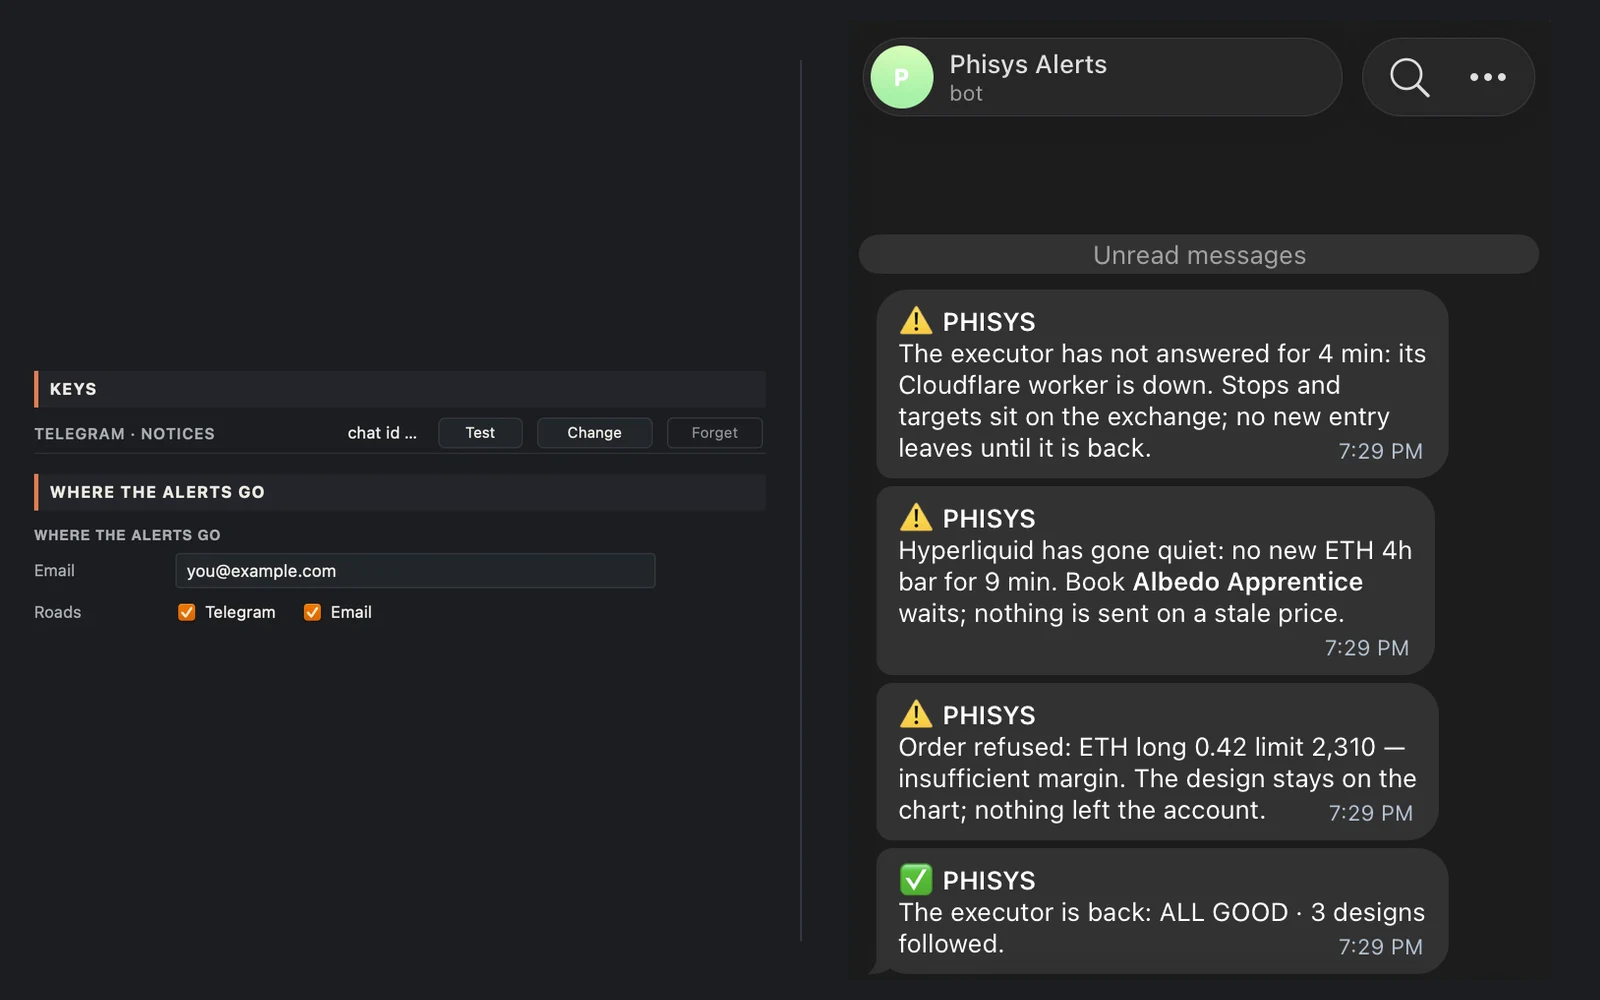
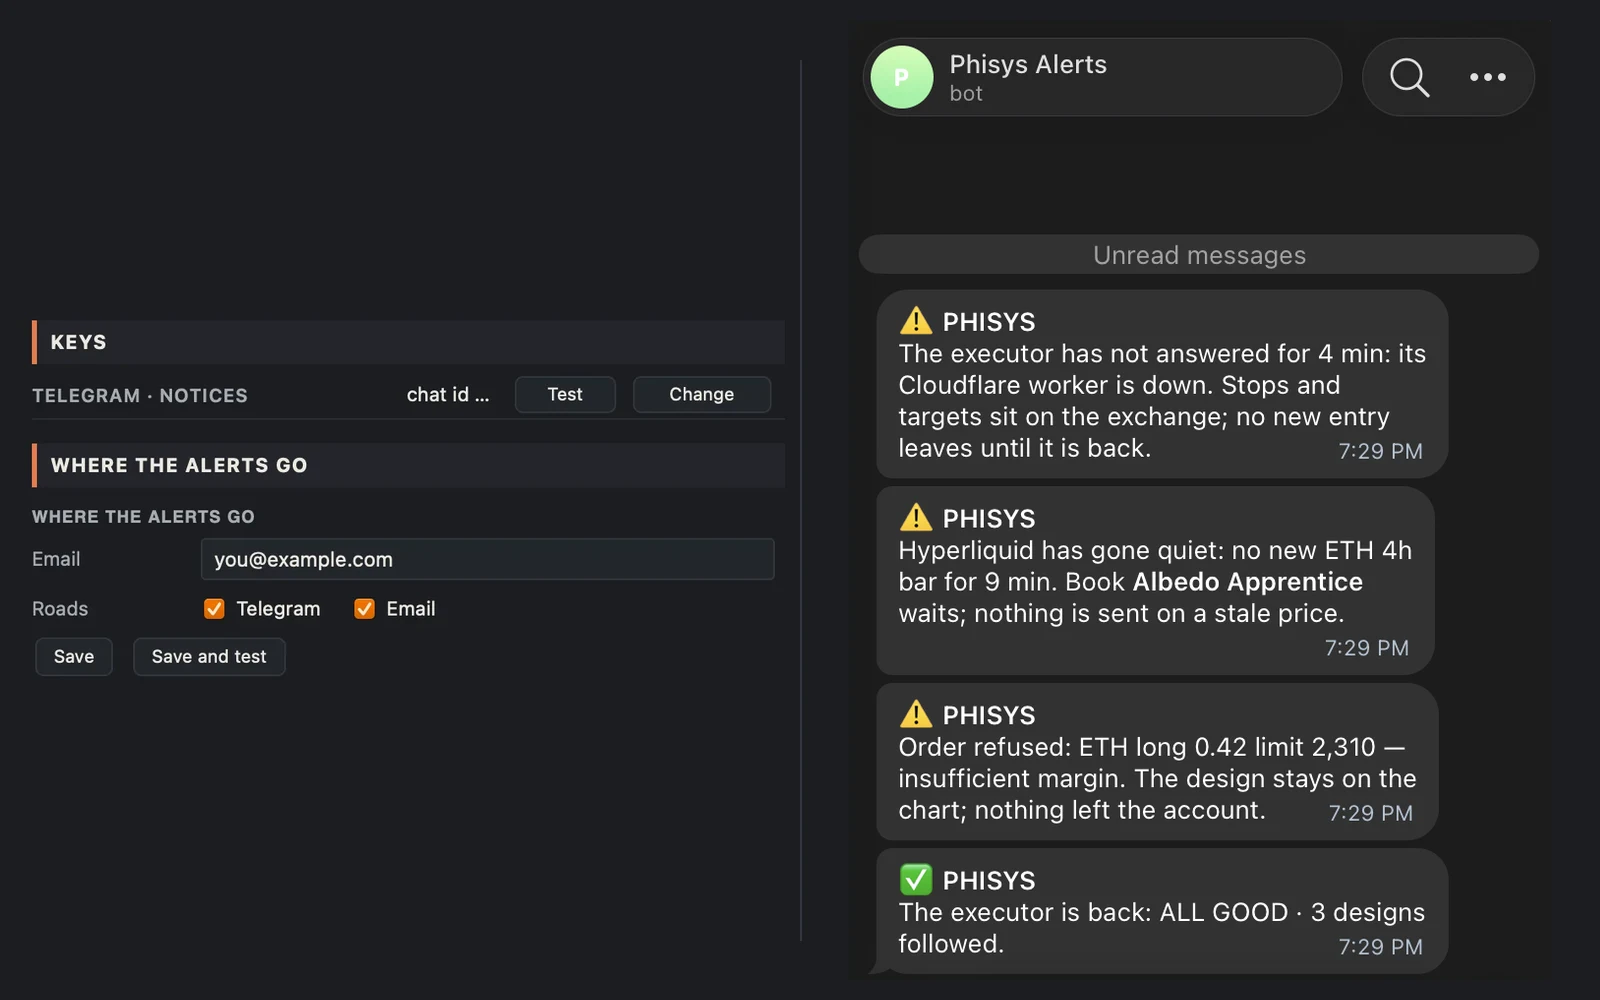
Phisys page: Telegram settings cut at the right after the email field, buttons kept, grey note out
Claude-Session: https://claude.ai/code/session_01PvRzho6i35K84RiJEfQJhD

diff --git a/phisys.html b/phisys.html
@@ -74,7 +74,7 @@
 <section class="sec" id="run" aria-labelledby="run-h">
   <div class="wrap">
     <div class="sec-head"><p class="eyebrow"><svg class="step" viewBox="0 0 48 12" aria-hidden="true"><path d="M1 6h46"/><circle cx="6" cy="6" r="3.3"/><circle cx="24" cy="6" r="3.3"/><circle cx="42" cy="6" r="3.3" class="on"/></svg>book · let it run</p><h2 id="run-h">Stop staring at charts</h2><p class="lede wide2">When a rule has held out of sample, its setup goes in your Book. The executor runs it round the clock from your own account, while you live your life.</p></div>
-    <div class="reel" role="list" aria-label="Book and executor in Phisys" tabindex="0"><figure><div class="shot has-img"><img src="img/phisys/book.webp" alt="Phisys: Book" loading="lazy" decoding="async"></div><figcaption><b>Book</b><span>Tested setups held together: 5, 8, 13 or no limit, by plan. One Book runs live at a time.</span></figcaption></figure><figure><div class="shot has-img"><img src="img/phisys/executor.webp" alt="Phisys: Executor" loading="lazy" decoding="async"></div><figcaption><b>Executor</b><span>Sends the Book's orders from your own Cloudflare account, day and night.</span></figcaption></figure><figure><div class="shot has-img"><img src="img/phisys/telegram.webp?v=3" alt="Phisys: Telegram when something needs you" loading="lazy" decoding="async"></div><figcaption><b>Telegram when something needs you</b><span>The executor down, a venue gone quiet, an order refused. Never signals.</span></figcaption></figure><figure><div class="shot has-img"><img src="img/phisys/stop-it.webp" alt="Phisys: Stop it from the page" loading="lazy" decoding="async"></div><figcaption><b>Stop it from the page</b><span>At any moment, with one click.</span></figcaption></figure><figure><div class="shot has-img"><img src="img/phisys/screener.webp" alt="Phisys: Screener" loading="lazy" decoding="async"></div><figcaption><b>Screener</b><span>Alerts on a whole watchlist.</span></figcaption></figure></div>
+    <div class="reel" role="list" aria-label="Book and executor in Phisys" tabindex="0"><figure><div class="shot has-img"><img src="img/phisys/book.webp" alt="Phisys: Book" loading="lazy" decoding="async"></div><figcaption><b>Book</b><span>Tested setups held together: 5, 8, 13 or no limit, by plan. One Book runs live at a time.</span></figcaption></figure><figure><div class="shot has-img"><img src="img/phisys/executor.webp" alt="Phisys: Executor" loading="lazy" decoding="async"></div><figcaption><b>Executor</b><span>Sends the Book's orders from your own Cloudflare account, day and night.</span></figcaption></figure><figure><div class="shot has-img"><img src="img/phisys/telegram.webp?v=4" alt="Phisys: Telegram when something needs you" loading="lazy" decoding="async"></div><figcaption><b>Telegram when something needs you</b><span>The executor down, a venue gone quiet, an order refused. Never signals.</span></figcaption></figure><figure><div class="shot has-img"><img src="img/phisys/stop-it.webp" alt="Phisys: Stop it from the page" loading="lazy" decoding="async"></div><figcaption><b>Stop it from the page</b><span>At any moment, with one click.</span></figcaption></figure><figure><div class="shot has-img"><img src="img/phisys/screener.webp" alt="Phisys: Screener" loading="lazy" decoding="async"></div><figcaption><b>Screener</b><span>Alerts on a whole watchlist.</span></figcaption></figure></div>
     <div style="margin-top:clamp(56px,7vw,96px)"><article class="block">
       <div class="art"><svg class="anim" viewBox="0 0 220 220" aria-hidden="true" focusable="false"><circle class="s-line" cx="110" cy="110" r="86"/><circle class="f-fg" cx="110.00" cy="24.00" r="4"/><circle class="f-b3" cx="132.26" cy="26.93" r="2.4"/><circle class="f-b3" cx="153.00" cy="35.52" r="2.4"/><circle class="f-b3" cx="170.81" cy="49.19" r="2.4"/><circle class="f-b3" cx="184.48" cy="67.00" r="2.4"/><circle class="f-b3" cx="193.07" cy="87.74" r="2.4"/><circle class="f-fg" cx="196.00" cy="110.00" r="4"/><circle class="f-b3" cx="193.07" cy="132.26" r="2.4"/><circle class="f-b3" cx="184.48" cy="153.00" r="2.4"/><circle class="f-b3" cx="170.81" cy="170.81" r="2.4"/><circle class="f-b3" cx="153.00" cy="184.48" r="2.4"/><circle class="f-b3" cx="132.26" cy="193.07" r="2.4"/><circle class="f-fg" cx="110.00" cy="196.00" r="4"/><circle class="f-b3" cx="87.74" cy="193.07" r="2.4"/><circle class="f-b3" cx="67.00" cy="184.48" r="2.4"/><circle class="f-b3" cx="49.19" cy="170.81" r="2.4"/><circle class="f-b3" cx="35.52" cy="153.00" r="2.4"/><circle class="f-b3" cx="26.93" cy="132.26" r="2.4"/><circle class="f-fg" cx="24.00" cy="110.00" r="4"/><circle class="f-b3" cx="26.93" cy="87.74" r="2.4"/><circle class="f-b3" cx="35.52" cy="67.00" r="2.4"/><circle class="f-b3" cx="49.19" cy="49.19" r="2.4"/><circle class="f-b3" cx="67.00" cy="35.52" r="2.4"/><circle class="f-b3" cx="87.74" cy="26.93" r="2.4"/><g class="a-orbit"><circle class="f-cu" cx="110" cy="24" r="7.5"/></g><text class="cl-t" x="110" y="120" text-anchor="middle">24h</text><text class="cl-s" x="110" y="143" text-anchor="middle">YOUR BOOK</text></svg></div>
       <div class="body">
